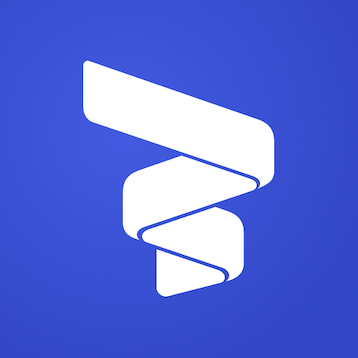
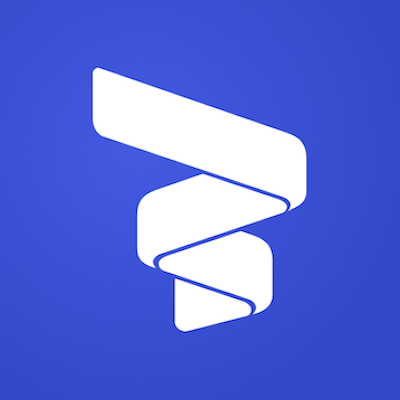
images resized, project added

diff --git a/src/data/projects.js b/src/data/projects.js
@@ -169,6 +169,13 @@ const projects = [
 		img: require('@/assets/images/projects/solidifi.jpg'),
 		url: 'https://solidifi.app/?ref=songbird.info'
 	},
+	{
+		id: 25,
+		title: 'FTSO AU',
+		category: 'FTSO',
+		img: require('@/assets/images/projects/ftsoau.png'),
+		url: 'https://ftso.au/?ref=songbird.info'
+	},
 ];
 
 export default projects;
